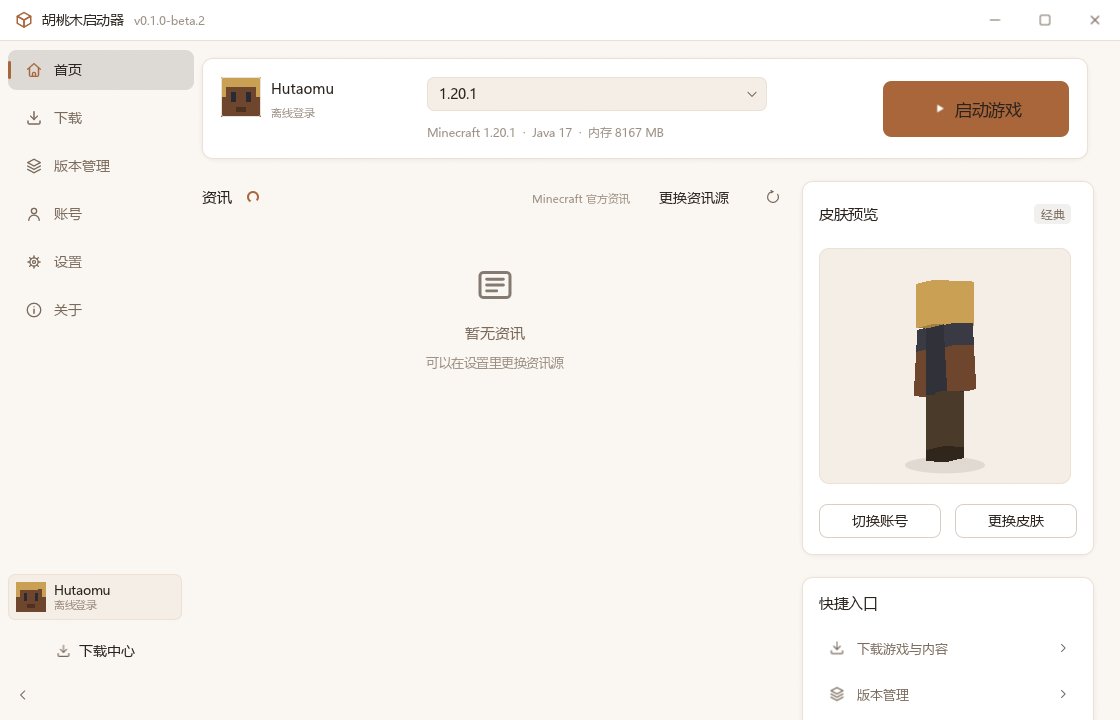
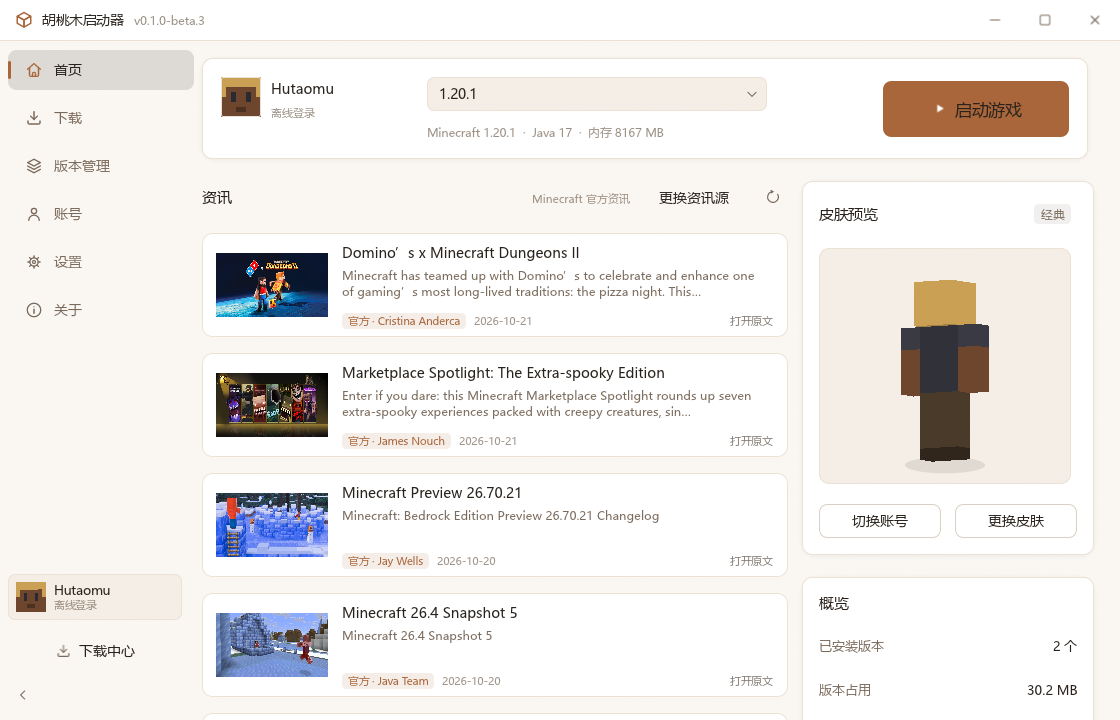
ui: 首页概览卡、提示条避让下载中心（beta.4）
- 首页右栏新增概览卡（版本数 / 占用 / 账号数 / 上次启动）
- 提示条改为右下角并随下载中心自动上移
- 未安装版本时禁用启动按钮
- 资讯拉取失败自动重试一次
- 更新界面截图与文档

diff --git a/src/app.rs b/src/app.rs
@@ -77,7 +77,7 @@ pub struct ShotState {
 }
 
 /// 自检截图覆盖的场景（页面 + 关键子标签）
-pub const SHOT_SCENES: usize = 13;
+pub const SHOT_SCENES: usize = 14;
 
 impl App {
     fn apply_shot_scene(&mut self, scene: usize) {
@@ -132,7 +132,7 @@ impl App {
                 self.download.content_query = "complementary".into();
                 views::download::run_search(self);
             }
-            _ => {
+            12 => {
                 // 触发一次真实下载，用于检查下载中心面板
                 self.page = Page::Home;
                 if let Some(manifest) = &self.manifest {
@@ -155,6 +155,11 @@ impl App {
                         });
                     }
                 }
+            }
+            _ => {
+                // 提示条位置与动效检查
+                self.page = Page::Home;
+                self.info("这是一条信息提示，用于检查提示条位置");
             }
         }
     }
@@ -461,7 +466,7 @@ impl App {
                     dir,
                     page_index: 0,
                     phase: 0,
-                    next_at: 5.0,
+                    next_at: 8.0,
                 }
             }),
         };
@@ -692,10 +697,29 @@ impl App {
         let url = self.cfg.news.url.clone();
         let timeout = self.cfg.download.timeout_secs;
         self.spawn("获取资讯", false, move |job| {
+            let started = std::time::Instant::now();
             let result = (|| -> anyhow::Result<Vec<NewsItem>> {
                 let dl = Downloader::new(DownloadSource::Official, timeout)?;
-                crate::core::news::fetch(&dl, &source, &url)
+                match crate::core::news::fetch(&dl, &source, &url) {
+                    Ok(items) => Ok(items),
+                    Err(first) => {
+                        // 资讯源偶发失败，重试一次
+                        std::thread::sleep(std::time::Duration::from_millis(600));
+                        crate::core::news::fetch(&dl, &source, &url).map_err(|second| {
+                            log::warn!("资讯首次失败: {first}");
+                            second
+                        })
+                    }
+                }
             })();
+            match &result {
+                Ok(items) => log::info!(
+                    "资讯已更新：{} 条，耗时 {:.2}s",
+                    items.len(),
+                    started.elapsed().as_secs_f32()
+                ),
+                Err(err) => log::warn!("资讯获取失败（{:.2}s）: {err}", started.elapsed().as_secs_f32()),
+            }
             job.send(CoreEvent::News(result.map_err(|e| format!("{e}"))));
             job.done(true, "");
         });
@@ -1930,7 +1954,20 @@ impl eframe::App for App {
         views::home_config::game_config_modal(self, &ctx);
         self.game_log_modal(&ctx);
         self.download_panel(&ctx);
-        widgets::toast_layer(&ctx, &self.palette, &mut self.toasts, now);
+        // 提示条固定在右下角，下载中心展开时自动上移避让
+        let active_tasks = self.tasks.iter().filter(|t| !t.done).count();
+        let panel_offset = if self.download_panel_open && active_tasks > 0 {
+            (80.0 + active_tasks as f32 * 126.0).min(500.0)
+        } else {
+            0.0
+        };
+        widgets::toast_layer(
+            &ctx,
+            &self.palette,
+            &mut self.toasts,
+            now,
+            panel_offset,
+        );
 
         self.run_screenshots(&ctx);
 
@@ -1957,6 +1994,7 @@ fn shot_scene_wait(scene: usize) -> f64 {
         10 => 2.2,
         11 => 9.0,
         12 => 6.0,
+        13 => 1.2,
         _ => 1.8,
     }
 }
@@ -1975,7 +2013,8 @@ fn shot_scene_label(scene: usize) -> &'static str {
         9 => "关于",
         10 => "首页-游戏配置",
         11 => "下载-整合包",
-        _ => "下载中心",
+        12 => "下载中心",
+        _ => "提示条",
     }
 }
 

diff --git a/src/views/home.rs b/src/views/home.rs
@@ -8,6 +8,7 @@ use egui::{Align, Color32, Layout, Pos2, Rect, Sense, Stroke, StrokeKind, Ui, Ve
 
 use crate::app::{App, Page};
 use crate::core::news::NewsItem;
+use crate::core::paths;
 use crate::icons;
 use crate::ui::{self, widgets, ButtonOpts};
 use crate::views;
@@ -37,6 +38,8 @@ pub fn ui(app: &mut App, ui: &mut Ui) {
         ui.vertical(|ui| {
             ui.set_width(right_width);
             skin_card(app, ui);
+            ui.add_space(14.0);
+            stats_card(app, ui);
             ui.add_space(14.0);
             shortcuts_card(app, ui);
         });
@@ -154,6 +157,7 @@ fn launch_card(app: &mut App, ui: &mut Ui) {
             // 启动按钮
             ui.with_layout(Layout::right_to_left(Align::Center), |ui| {
                 let running = app.game.is_some();
+                let has_version = app.selected_version_id().is_some();
                 let label = if running { "游戏运行中" } else { "启动游戏" };
                 let clicked = ui::button(
                     ui,
@@ -163,7 +167,7 @@ fn launch_card(app: &mut App, ui: &mut Ui) {
                         .width(186.0)
                         .height(56.0)
                         .font_size(16.5)
-                        .enabled(!running),
+                        .enabled(!running && has_version),
                 )
                 .clicked();
                 if clicked {
@@ -495,5 +499,51 @@ fn shortcuts_card(app: &mut App, ui: &mut Ui) {
             let _ = crate::core::paths::ensure_dir(&crate::core::paths::logs_dir());
             crate::core::paths::reveal(&crate::core::paths::logs_dir());
         }
+    });
+}
+
+// ------------------------------------------------------------------ 概览统计
+
+fn stats_card(app: &mut App, ui: &mut Ui) {
+    let p = app.palette;
+    let total_size: u64 = app.local_versions.iter().map(|v| v.size).sum();
+    let last_launch = app
+        .cfg
+        .version_stats
+        .values()
+        .map(|s| s.last_launch)
+        .max()
+        .unwrap_or(0);
+
+    ui::card(ui, &p, |ui| {
+        ui.label(
+            egui::RichText::new("概览")
+                .font(ui::font(14.5))
+                .color(p.text)
+                .strong(),
+        );
+        ui.add_space(8.0);
+        widgets::key_value(ui, &p, "已安装版本", &format!("{} 个", app.local_versions.len()));
+        ui.add_space(4.0);
+        widgets::key_value(ui, &p, "版本占用", &paths::format_size(total_size));
+        ui.add_space(4.0);
+        widgets::key_value(ui, &p, "账号", &format!("{} 个", app.accounts.accounts.len()));
+        ui.add_space(4.0);
+        widgets::key_value(
+            ui,
+            &p,
+            "上次启动",
+            &if last_launch > 0 {
+                chrono::DateTime::from_timestamp(last_launch, 0)
+                    .map(|t| {
+                        t.with_timezone(&chrono::Local)
+                            .format("%m-%d %H:%M")
+                            .to_string()
+                    })
+                    .unwrap_or_else(|| "—".into())
+            } else {
+                "还没有启动过".to_string()
+            },
+        );
     });
 }

diff --git a/src/ui/widgets.rs b/src/ui/widgets.rs
@@ -1118,14 +1118,20 @@ impl Toast {
 
 pub const TOAST_LIFETIME: f64 = 3.8;
 
-pub fn toast_layer(ctx: &egui::Context, p: &Palette, toasts: &mut Vec<Toast>, now: f64) {
+pub fn toast_layer(
+    ctx: &egui::Context,
+    p: &Palette,
+    toasts: &mut Vec<Toast>,
+    now: f64,
+    bottom_offset: f32,
+) {
     toasts.retain(|t| now - t.created < TOAST_LIFETIME);
     if toasts.is_empty() {
         return;
     }
     egui::Area::new(Id::new("htmcl_toasts"))
         .order(egui::Order::Tooltip)
-        .anchor(Align2::RIGHT_BOTTOM, Vec2::new(-20.0, -20.0))
+        .anchor(Align2::RIGHT_BOTTOM, Vec2::new(-20.0, -(20.0 + bottom_offset)))
         .interactable(false)
         .show(ctx, |ui| {
             ui.with_layout(egui::Layout::bottom_up(egui::Align::RIGHT), |ui| {

diff --git a/README.md b/README.md
@@ -13,9 +13,9 @@ Hutaomu Minecraft Launcher —— 用 Rust 编写的 Windows Minecraft 启动器
 
 | 版本 | 说明 |
 | --- | --- |
-| [v0.1.0-beta.3](https://github.com/qiuxi903/Hutaomu_Minecraft_Launcher/releases/tag/v0.1.0-beta.3) | 第三个公开测试版（Pre-release），Windows x64 |
+| [v0.1.0-beta.4](https://github.com/qiuxi903/Hutaomu_Minecraft_Launcher/releases/tag/v0.1.0-beta.4) | 第四个公开测试版（Pre-release），Windows x64 |
 
-发行包 `htmcl-v0.1.0-beta.3-windows-x64.zip` 内含 `htmcl.exe`、`README.md` 与 `LICENSE`。解压后双击 `htmcl.exe` 即可，无需安装。校验值见发行页的 `SHA256SUMS.txt`。
+发行包 `htmcl-v0.1.0-beta.4-windows-x64.zip` 内含 `htmcl.exe`、`README.md` 与 `LICENSE`。解压后双击 `htmcl.exe` 即可，无需安装。校验值见发行页的 `SHA256SUMS.txt`。
 
 从源码构建请见 [构建](#构建)。
 
@@ -40,7 +40,7 @@ Hutaomu Minecraft Launcher —— 用 Rust 编写的 Windows Minecraft 启动器
 
 ## 测试版声明
 
-当前版本 **v0.1.0-beta.3** 是项目的第三个公开测试版（Beta）。
+当前版本 **v0.1.0-beta.4** 是项目的第四个公开测试版（Beta）。
 
 - 功能仍在快速迭代，配置文件字段、目录结构与界面布局都可能在下个版本变化；
 - 升级前请备份 `accounts.json` 与游戏目录；
